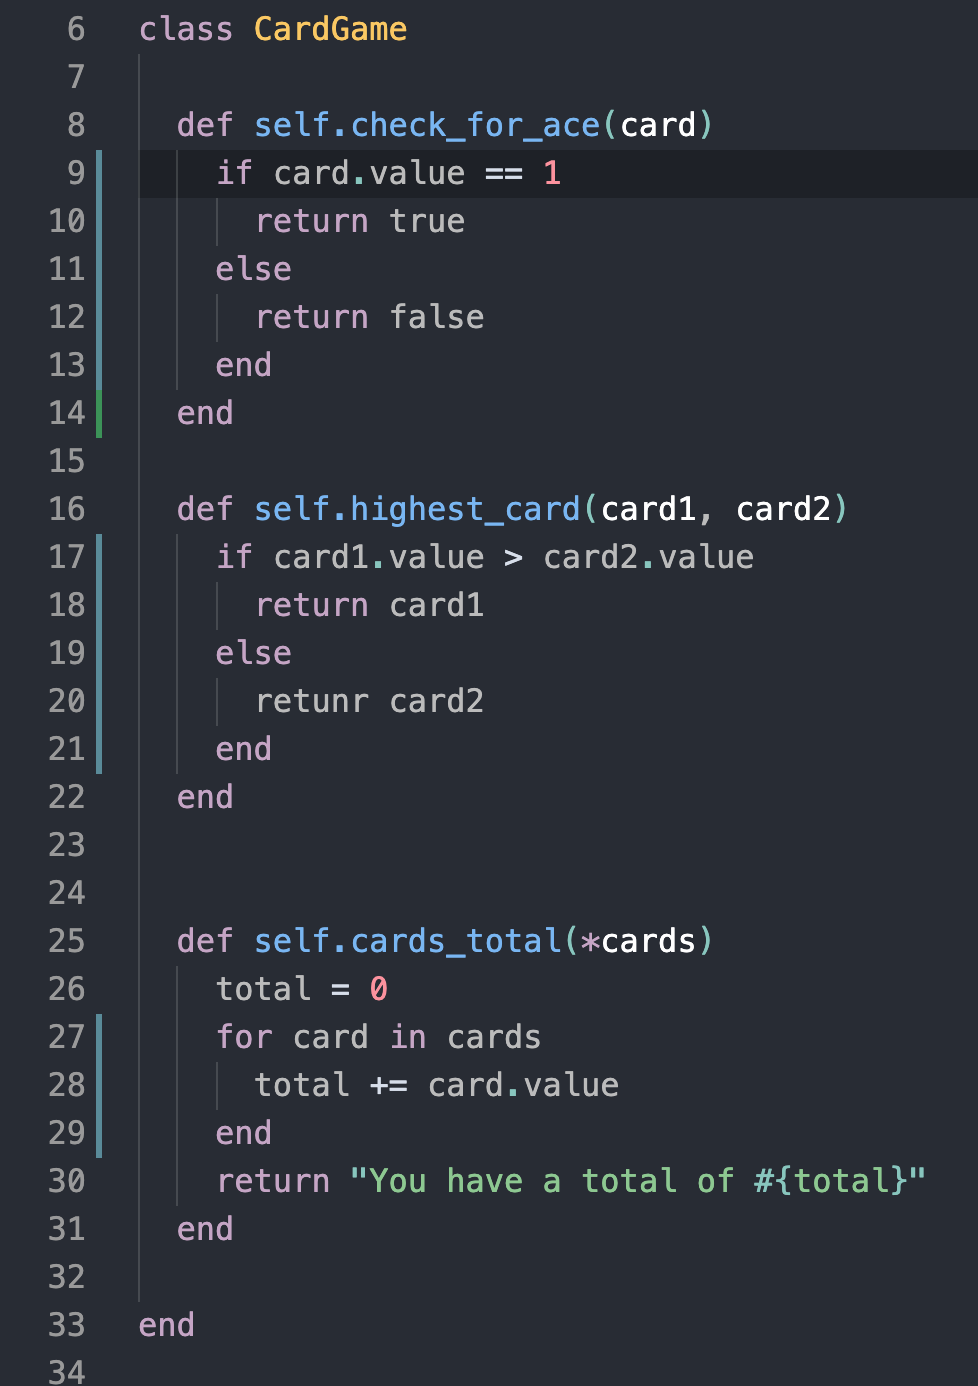
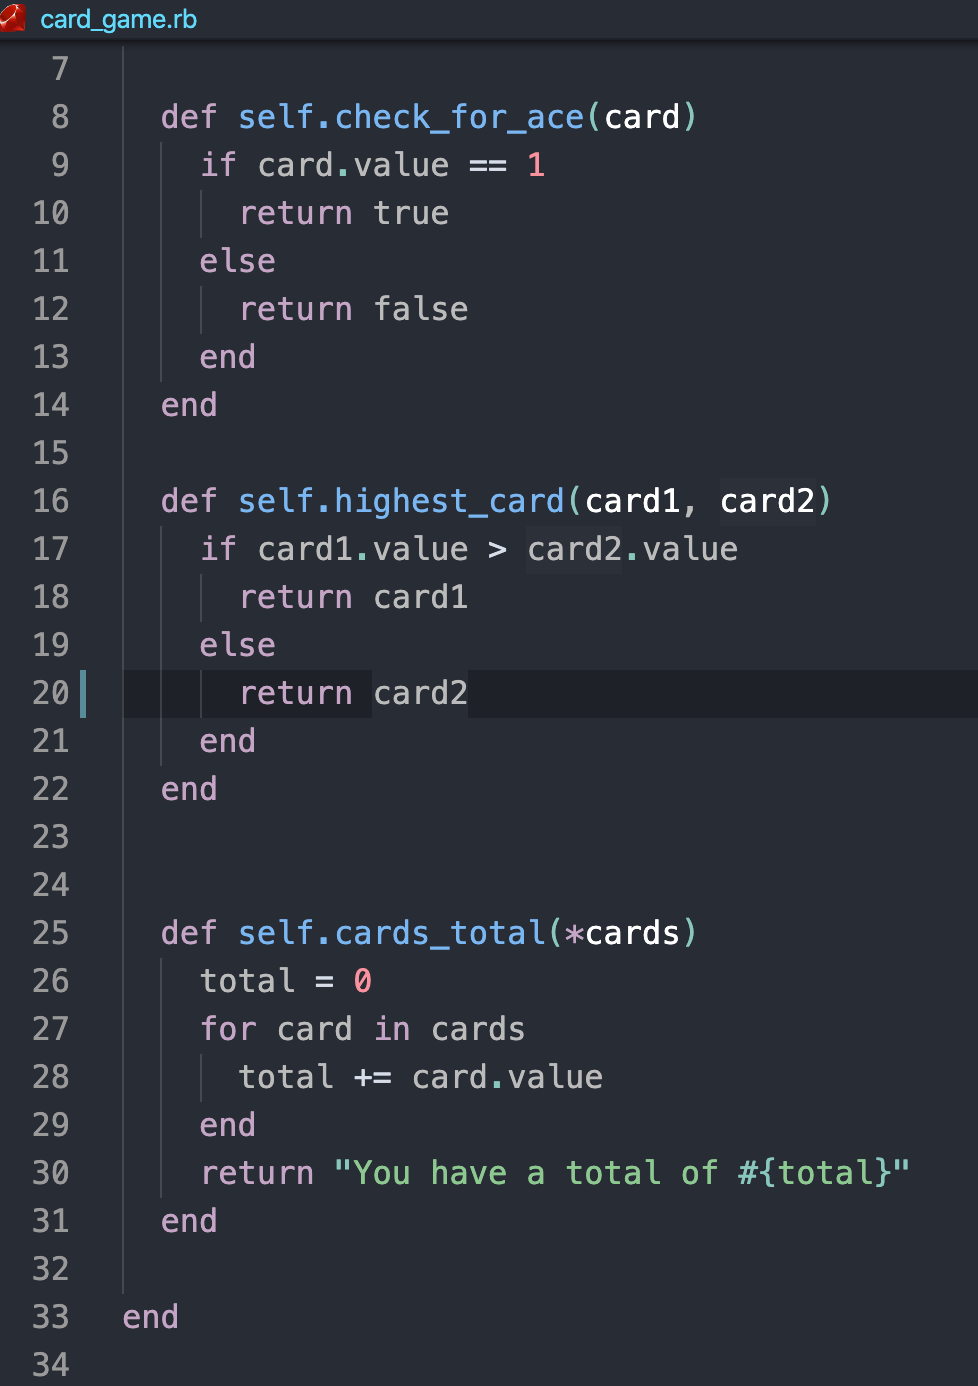
changed spelling mistake

Changed region(s): [[0.0, 0.0, 0.9509, 1.0]]

diff --git a/card_game.rb b/card_game.rb
@@ -17,7 +17,7 @@ class CardGame
     if card1.value > card2.value 
       return card1
     else
-      retunr card2
+      return card2
     end
   end
 
